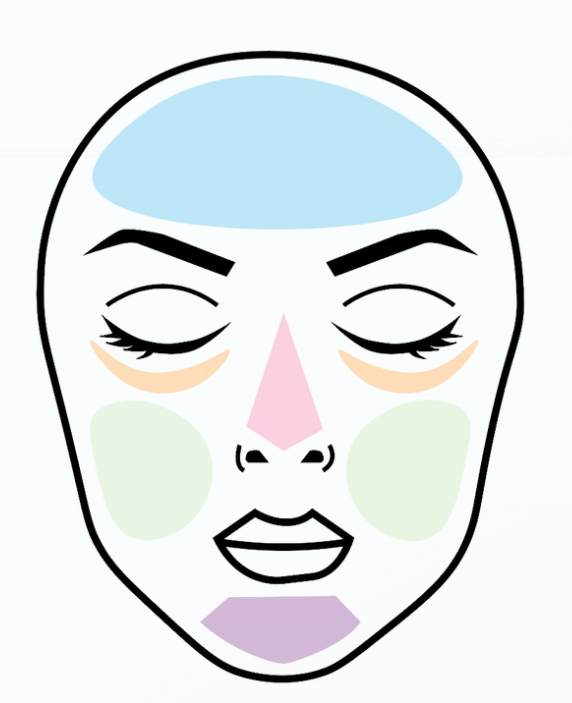
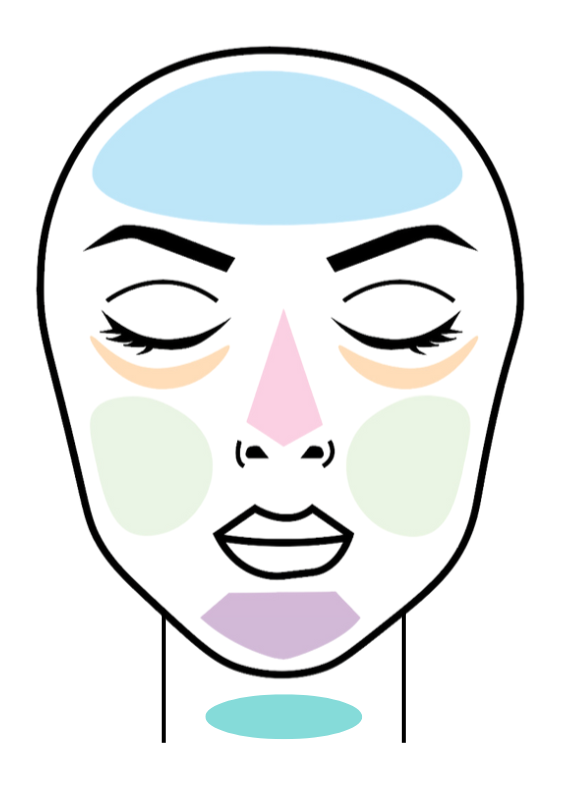
-added neck for concern area -removed obagi products

Changed region(s): [[0.0594, 0.0597, 0.9213, 0.9858]]

diff --git a/source/index.html b/source/index.html
@@ -548,11 +548,11 @@
                 version="1.1"
                 xmlns="http://www.w3.org/2000/svg"
                 xmlns:xlink="http://www.w3.org/1999/xlink"
-                viewBox="0 0 572 703"
+                viewBox="0 0 572 800"
               >
                 <image
                   width="572"
-                  height="703"
+                  height="800"
                   xlink:href="images/concernArea.png"
                 ></image>
                 <g class="hover_group" opacity="0">
@@ -588,7 +588,7 @@
                     onclick="selectConcernArea('undereye')"
                   ></rect>
                 </g>
-                <g lass="hover_group" opacity="0">
+                <g class="hover_group" opacity="0">
                   <rect
                     x="248"
                     y="308"
@@ -630,6 +630,17 @@
                     width="160"
                     height="70"
                     onclick="selectConcernArea('chin')"
+                  ></rect>
+                </g>
+                <g class="hover_group" opacity="0">
+                  <rect
+                    x="180"
+                    y="700"
+                    fill="#fff"
+                    opacity="0"
+                    width="210"
+                    height="50"
+                    onclick="selectConcernArea('neck')"
                   ></rect>
                 </g>
               </svg>
@@ -892,12 +903,14 @@
           "Foaming Wash - Reveal",
           "Quench Advanced Hyaluronic Serum",
           "Hypo21 Purifying Skin Spray",
+          /*
           "Obagi Nu-Derm Foaming Gel",
           "Obagi Foaming Cleanser",
           "Obagi Hydrate Luxe Facial Moisturiser",
           "Vitamin C Serum 10%",
           "Obagi 360 Hydrofactor SPF 30",
           "Blemish Control Pen",
+          */
         ];
 
         let dryDehydratedProductPool = [
@@ -908,9 +921,11 @@
           "Prepare – Cleansing Lotion",
           "Vitamin C Serum 10%",
           "Thrive Menopausal Skin Serum",
+          /*
           "Obagi Hydrate Luxe Facial Moisturiser",
           "Obagi Nu-Derm 1 Gentle Cleanser",
           "Obagi Hydro Drops Facial Serum",
+          */
         ];
 
         let unevenSkinToneProductPool = [
@@ -921,11 +936,13 @@
           "Rejuvenating Serum - Rejuvenate",
           "Quench Advanced Hyaluronic Serum",
           "Luxury Exfoliator Cleanser",
+          /*
           "Obagi Professional-C Peptide Complex",
           "Obagi-C Rx Exfoliating Day Lotion",
           "Obagi-C Rx Cleaning Gel",
           "Obagi Professional-C Microdermabrasion Polish Mask",
           "Obagi Hydrate Luxe Facial Moisturiser",
+          */
         ];
 
         let maturingProductPool = [
@@ -970,11 +987,13 @@
           "SPF 50 sunscreen FTT Skin Clinics Protect",
           "Retinol Serum - FTT Skin Clinics R+",
           "Luxury Exfoliator Cleanser",
+          /*
           "Obagi Nu-Derm 1 Gentle Cleanser",
           "Obagi Hydrate Luxe Facial Moisturiser",
           "Obagi Professional-C Peptide Complex",
           "Hypo21 Purifying Skin Spray",
           "Obagi 360 Exfoliating Cleanser",
+          */
         ];
 
         // Modals
